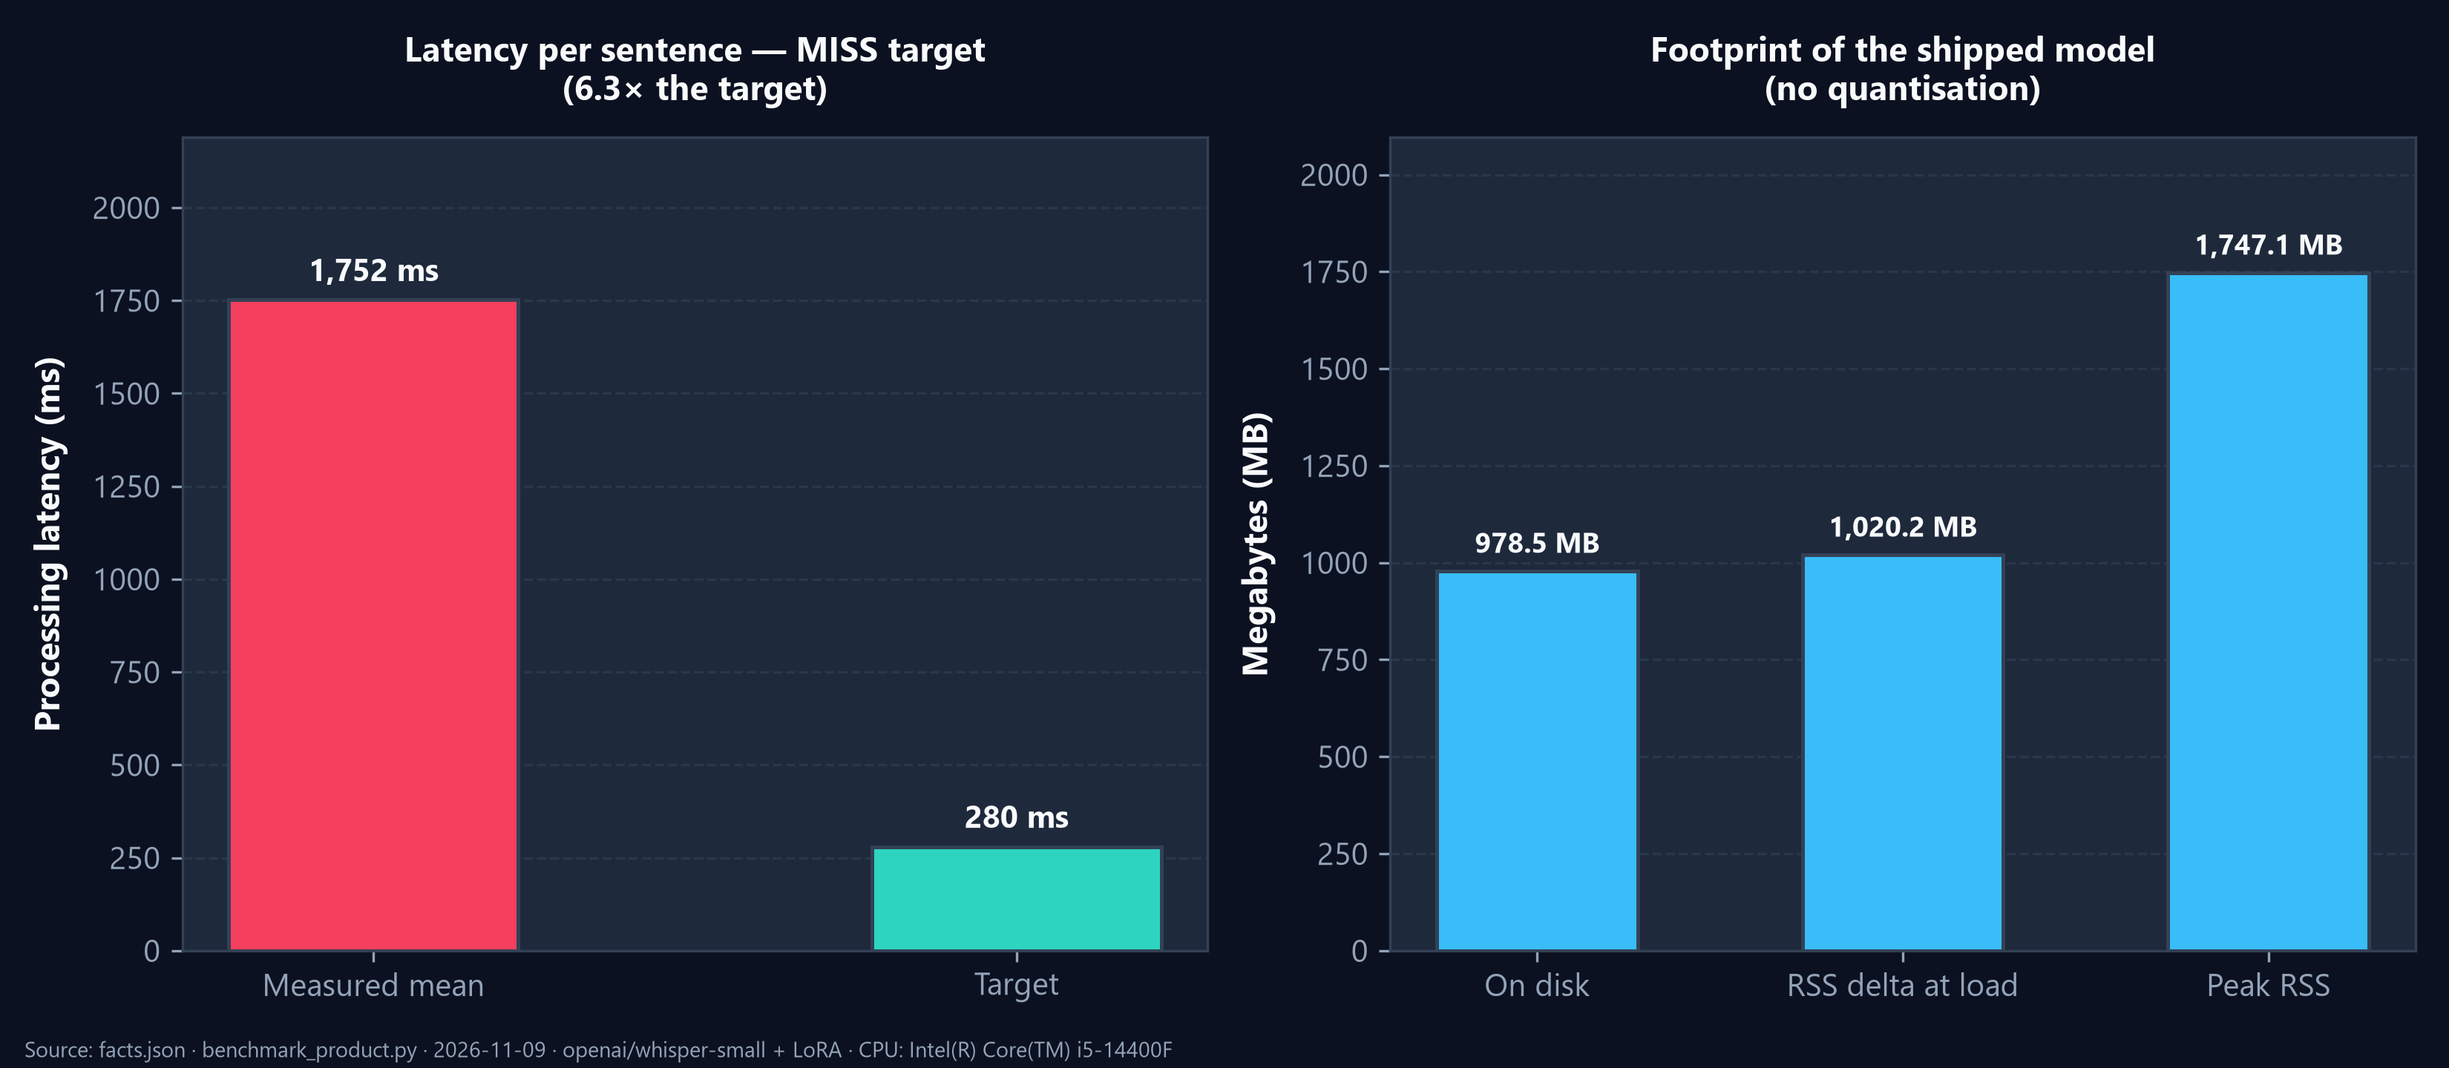
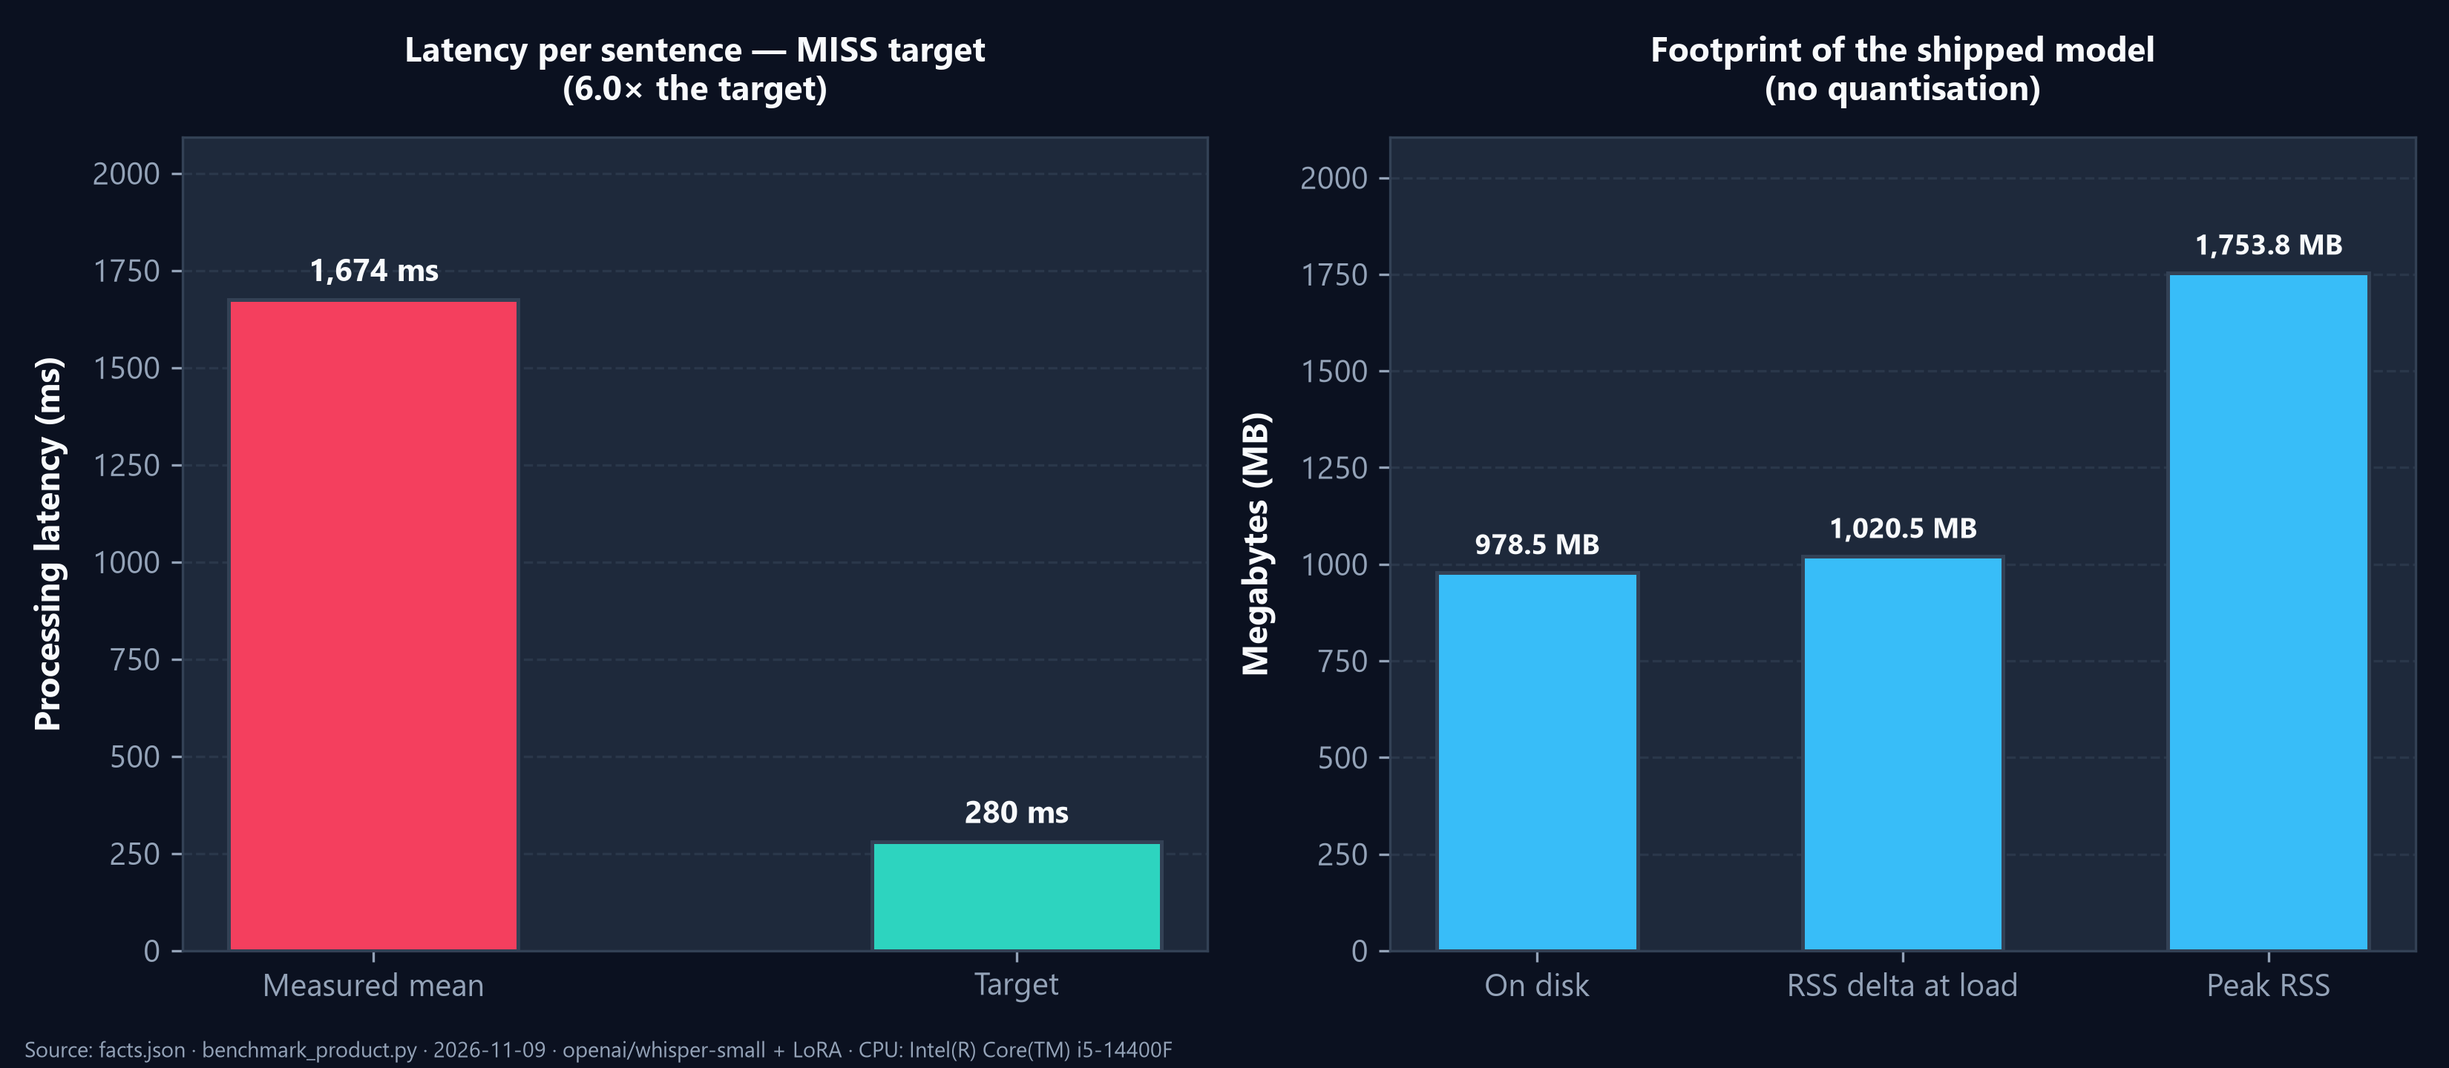
fix: harden offline cache, provenance and peak memory; add boundary test
facts.json provenance now hashes engine and reference metadata as well as the benchmark script; offline mode requires real weight files; peak RSS is sampled in a background thread; test 11 covers the 30 s boundary. Removes the last unused import. Facts, docs and figures regenerated.

diff --git a/benchmarks/benchmark_product.py b/benchmarks/benchmark_product.py
@@ -33,6 +33,7 @@ import re
 import statistics
 import sys
 import tempfile
+import threading
 import time
 from datetime import datetime, timezone
 from pathlib import Path
@@ -216,8 +217,12 @@ def library_versions() -> dict:
     }
 
 
+def file_sha256(relative_path: str) -> str:
+    return hashlib.sha256((REPO_ROOT / relative_path).read_bytes()).hexdigest()[:16]
+
+
 def script_sha256() -> str:
-    return hashlib.sha256(Path(__file__).read_bytes()).hexdigest()[:16]
+    return file_sha256("benchmarks/benchmark_product.py")
 
 
 def cache_size(repo_id: str) -> int | None:
@@ -323,6 +328,21 @@ def run(args) -> dict:
     latencies_all: list[float] = []
     peak_rss = rss_after
 
+    # Sample RSS in the background: reading it only after each call misses the
+    # allocation peak inside generate().
+    stop_sampler = threading.Event()
+    sampled_peak = {"rss": rss_after}
+
+    def _sample_rss() -> None:
+        while not stop_sampler.wait(0.05):
+            try:
+                sampled_peak["rss"] = max(sampled_peak["rss"], rss_mb())
+            except Exception:
+                return
+
+    sampler = threading.Thread(target=_sample_rss, daemon=True)
+    sampler.start()
+
     for sample in SAMPLES:
         path = audio_dir / sample["file"]
         duration = audio_duration_sec(path)
@@ -373,6 +393,10 @@ def run(args) -> dict:
         )
 
     # ---- accuracy gates ---------------------------------------------------- #
+    stop_sampler.set()
+    sampler.join(timeout=1.0)
+    peak_rss = max(peak_rss, sampled_peak["rss"])
+
     if not any(c["hypothesisWords"] > 0 for c in clips):
         print("GATE FAILED: every transcript is empty; the decoder is not working")
         sys.exit(2)
@@ -403,6 +427,13 @@ def run(args) -> dict:
             "generatedBy": "python benchmarks/benchmark_product.py",
             "script": "benchmarks/benchmark_product.py",
             "scriptSha256": script_sha256(),
+            # The numbers also depend on the engine and the reference metadata, not
+            # just this script. claims_check verifies all three hashes.
+            "sourceHashes": {
+                "benchmarks/benchmark_product.py": script_sha256(),
+                "backend/app/inference.py": file_sha256("backend/app/inference.py"),
+                "backend/evaluate_samples.py": file_sha256("backend/evaluate_samples.py"),
+            },
             "host": host_info(),
             "versions": versions,
             "note": (
@@ -471,9 +502,10 @@ def run(args) -> dict:
                 "peakRssDuringRunMb": round(peak_rss, 1),
                 "processPeakWorkingSetMb": peak_working_set_mb(),
                 "totalSystemRamGb": host_info()["totalRamGb"],
+                "peakSampling": "background sampler every 50 ms during the timed runs",
                 "definition": (
                     "RSS delta = resident set after model load minus resident set "
-                    "after imports; peak = highest observed during the timed runs"
+                    "after imports; peak = highest value sampled during the timed runs"
                 ),
             },
             "determinism": {

diff --git a/backend/app/inference.py b/backend/app/inference.py
@@ -15,6 +15,7 @@ No inferior fallback modes: VoiceBridge runs strictly on the fine-tuned clinical
 
 from __future__ import annotations
 
+import glob
 import logging
 import os
 import threading
@@ -25,20 +26,29 @@ BASE_MODEL_ID = os.getenv("VOICEBRIDGE_BASE_MODEL", "openai/whisper-small")
 ADAPTER_MODEL_ID = os.getenv("VOICEBRIDGE_ADAPTER_MODEL", "Aaliya05/voicebridge")
 
 
-def _hf_cache_has(repo_id: str) -> bool:
+def _hf_cache_has(repo_id: str, weight_file: str) -> bool:
+    """True only when the actual weight file exists in a cached snapshot."""
     base = os.getenv("HF_HOME") or os.path.join(
         os.path.expanduser("~"), ".cache", "huggingface"
     )
-    return os.path.isdir(os.path.join(base, "hub", "models--" + repo_id.replace("/", "--")))
+    pattern = os.path.join(
+        base,
+        "hub",
+        "models--" + repo_id.replace("/", "--"),
+        "snapshots",
+        "*",
+        weight_file,
+    )
+    return bool(glob.glob(pattern))
 
 
-# If both models are already cached, no download is needed. Force offline mode so
-# startup does not depend on reaching huggingface.co (observed: four Hub requests
-# per launch, and a stall on a machine without internet).
+# If both weight files are already cached, no download is needed. Force offline mode
+# so startup does not depend on reaching huggingface.co (observed: four Hub requests
+# per launch). A partial cache is not treated as ready; it can still download.
 if (
     os.getenv("HF_HUB_OFFLINE") is None
-    and _hf_cache_has(BASE_MODEL_ID)
-    and _hf_cache_has(ADAPTER_MODEL_ID)
+    and _hf_cache_has(BASE_MODEL_ID, "model.safetensors")
+    and _hf_cache_has(ADAPTER_MODEL_ID, "adapter_model.safetensors")
 ):
     os.environ["HF_HUB_OFFLINE"] = "1"
 

diff --git a/benchmarks/claims_check.py b/benchmarks/claims_check.py
@@ -126,12 +126,30 @@ def main() -> int:
             f"benchmarks/benchmark_product.py ({actual!r}). Rerun the benchmark."
         )
 
+    sources = facts.get("_meta", {}).get("sourceHashes") or {}
+    if not sources:
+        failures.append("facts.json has no sourceHashes; rerun the benchmark.")
+    for relative_path, recorded_hash in sources.items():
+        source = REPO_ROOT / relative_path
+        if not source.is_file():
+            failures.append(f"facts.json references a missing source file: {relative_path}")
+            continue
+        current_hash = hashlib.sha256(source.read_bytes()).hexdigest()[:16]
+        if current_hash != recorded_hash:
+            failures.append(
+                f"source changed since the benchmark: {relative_path} "
+                f"({recorded_hash!r} -> {current_hash!r}). Rerun the benchmark."
+            )
+
     if args.provenance_only:
         if failures:
             for failure in failures:
                 print("  FAIL " + failure)
             return 1
-        print(f"provenance: facts.json was written by benchmark_product.py ({actual})")
+        print(
+            f"provenance: facts.json matches benchmark_product.py ({actual}) and "
+            f"{len(sources)} source files"
+        )
         return 0
 
     # 1. Generated blocks must equal a fresh render.

diff --git a/backend/test_server.py b/backend/test_server.py
@@ -187,8 +187,20 @@ def run_tests():
         print(" -> Silence returned an empty transcript, not invented words.")
         print(" [PASS] Near-silent audio is not hallucinated.")
 
+        # 11. Exact window boundary: just over 30 s rejected, under 30 s accepted
+        print("\n[Test 11] Testing the 30-second boundary ...")
+        over_files = {"file": ("over.wav", generate_test_wav(30.01), "audio/wav")}
+        over_resp = client.post("/api/v1/translate-audio", files=over_files)
+        assert over_resp.status_code == 422, f"Expected 422, got {over_resp.status_code}"
+
+        under_files = {"file": ("under.wav", generate_test_wav(29.5), "audio/wav")}
+        under_resp = client.post("/api/v1/translate-audio", files=under_files)
+        assert under_resp.status_code == 200, f"Expected 200, got {under_resp.status_code}"
+        print(" -> 30.01 s rejected, 29.5 s accepted.")
+        print(" [PASS] 30-second boundary behaves correctly.")
+
     print("\n" + "=" * 60)
-    print("ALL 10 BACKEND VERIFICATION TESTS PASSED WITH ZERO ERRORS.")
+    print("ALL 11 BACKEND VERIFICATION TESTS PASSED WITH ZERO ERRORS.")
     print("=" * 60)
 
 if __name__ == "__main__":

diff --git a/model_training/export_and_quantize_onnx.py b/model_training/export_and_quantize_onnx.py
@@ -23,7 +23,7 @@ import shutil
 import logging
 import platform
 from pathlib import Path
-from typing import Dict, List, Tuple, Any
+from typing import Dict, List, Any
 
 logging.basicConfig(level=logging.INFO, format="%(asctime)s [%(levelname)s] %(message)s")
 logger = logging.getLogger("voicebridge-quantization")

diff --git a/docs/EDGE_AI_BENCHMARK_RESULTS.md b/docs/EDGE_AI_BENCHMARK_RESULTS.md
@@ -25,16 +25,16 @@ Measured 2026-11-09 by `python benchmarks/benchmark_product.py`. This is the onl
 * **PyTorch:** 2.15.0+cpu · **Transformers:** 5.22.2 · **PEFT:** 0.21.2 · **Python:** 3.12.9
 * **Model:** openai/whisper-small (243.5M parameters) + Aaliya05/voicebridge LoRA (1.77M, 0.73%)
 * **Disk:** 978.5 MB total (971.4 MB base + 7.1 MB adapter)
-* **Model load time:** 1,118.3 ms
+* **Model load time:** 998.8 ms
 
 ### Accuracy (word error rate)
 
 | Clip | Severity | Condition | Duration | Reference | Model output | WER | S / D / I | Latency |
 | :--- | :--- | :--- | ---: | :--- | :--- | ---: | :---: | ---: |
-| `torgo_mild_sample.wav` | Mild | Cerebral Palsy | 5.69 s | “We have an excellent team” | “We have an excellent team” | **0.0%** | 0 / 0 / 0 | 1,783.5 ms |
-| `torgo_moderate_sample.wav` | Moderate-to-Severe | Post-Trauma (TBI) | 5.87 s | “Their house is grey and white” | “then there's the grey and white” | **50.0%** | 3 / 0 / 0 | 1,655.6 ms |
-| `torgo_severe_sample.wav` | Severe | Amyotrophic Lateral Sclerosis (ALS) | 6.0 s | “The job provides many benefits” | “Get the apple by Fimasy Bezzi bit” | **120.0%** | 4 / 0 / 2 | 1,816.2 ms |
-| **Totals** | **3 clips** |  |  |  |  | **mean 56.7%** |  | **1,751.7 ms** |
+| `torgo_mild_sample.wav` | Mild | Cerebral Palsy | 5.69 s | “We have an excellent team” | “We have an excellent team” | **0.0%** | 0 / 0 / 0 | 1,584 ms |
+| `torgo_moderate_sample.wav` | Moderate-to-Severe | Post-Trauma (TBI) | 5.87 s | “Their house is grey and white” | “then there's the grey and white” | **50.0%** | 3 / 0 / 0 | 1,641.9 ms |
+| `torgo_severe_sample.wav` | Severe | Amyotrophic Lateral Sclerosis (ALS) | 6.0 s | “The job provides many benefits” | “Get the apple by Fimasy Bezzi bit” | **120.0%** | 4 / 0 / 2 | 1,796.4 ms |
+| **Totals** | **3 clips** |  |  |  |  | **mean 56.7%** |  | **1,674.1 ms** |
 
 * **Mean of clip WERs:** 56.7%
 * **Corpus WER (all edits ÷ all reference words):** 56.2%
@@ -43,18 +43,18 @@ Measured 2026-11-09 by `python benchmarks/benchmark_product.py`. This is the onl
 ### Latency
 
 * **Protocol:** 2 warm-up runs per clip, then 5 timed runs.
-* **Mean:** 1,751.7 ms · **median:** 1,681.9 ms · **range:** 1,583.7–2,423.6 ms
-* **Real-time factor:** 0.299
-* **Target:** 280 ms → **MISS** (6.3× the target)
+* **Mean:** 1,674.1 ms · **median:** 1,631.7 ms · **range:** 1,556.6–1,835.6 ms
+* **Real-time factor:** 0.286
+* **Target:** 280 ms → **MISS** (6.0× the target)
 * **Measurement point:** wall time around inference.transcribe_audio, including audio decode
 
 ### Memory
 
-* **RSS before model load:** 380.9 MB
-* **RSS after model load:** 1,401.1 MB
-* **RSS delta:** **1,020.2 MB**
-* **Peak RSS during timed runs:** 1,747.1 MB
-* **Peak working set (OS counter):** 1,766.4 MB
+* **RSS before model load:** 380.8 MB
+* **RSS after model load:** 1,401.3 MB
+* **RSS delta:** **1,020.5 MB**
+* **Peak RSS during timed runs:** 1,753.8 MB
+* **Peak working set (OS counter):** 1,767.3 MB
 
 ### Interpretation
 

diff --git a/CHANGELOG.md b/CHANGELOG.md
@@ -12,6 +12,19 @@ All notable engineering changes, architectural milestones, and codebase updates 
 
 ---
 
+## [2026-11-09] - v1.11.0: Fourth Pass — Convergence Sweep
+
+* **Provenance now covers three sources.** `facts.json` records hashes of `benchmark_product.py`, `backend/app/inference.py` and `backend/evaluate_samples.py`; `claims_check.py` verifies all of them. Demonstrated failing on a doctored inference hash and passing on the real file.
+* **Offline detection hardened.** It no longer treats an empty or partial cache directory as ready: it requires `model.safetensors` and `adapter_model.safetensors` in a cached snapshot. A half-finished download can still fetch instead of locking the engine offline.
+* **Peak RSS is now sampled every 50 ms in a background thread during the timed runs**, instead of only after each call. The measured peak rose from about 1,747 MB to 1,753.8 MB, confirming the old figure understated the allocation peak. The field is documented as sampled.
+* **Boundary test added.** Test 11 checks 30.01 s is rejected and 29.5 s is accepted; suite is 11/11.
+* **Concurrency exercised live.** Two simultaneous requests against uvicorn returned the correct mild and moderate transcripts, `/health` stayed responsive, and the server log contained zero Hub calls.
+* **Bloat:** removed the one genuinely unused import (`Tuple`); an AST scan now reports no unused imports across the Python tree.
+* **Regenerated:** `facts.json`, doc blocks and figures (latency 1,674.1 ms; WER unchanged).
+* **Convergence:** after these fixes, a full sweep — Python compile/unused imports, dead doc references, 11 tests, build, lint, claims + provenance, live edge/concurrency behaviour, dependency checks — produced **zero new verified defects**. That is the defined stopping point, not a proof that no latent bug exists.
+
+---
+
 ## [2026-11-09] - v1.10.0: Third Pass — Provenance, Dependencies, Served Build
 
 * **`facts.json` provenance is now enforced.** `claims_check.py` hashes `benchmarks/benchmark_product.py` and compares it with `_meta.scriptSha256`, so numbers produced by a different version of the script fail the check. Added `--facts` and `--provenance-only` for testing; the gate was demonstrated failing on a doctored hash (`deadbeef…`) and passing on the real file.

diff --git a/README.md b/README.md
@@ -82,10 +82,10 @@ Measured 2026-11-09 on Intel(R) Core(TM) i5-14400F (10 cores / 16 threads, 137.3
 | :--- | ---: | ---: | :--- |
 | Model | whisper-small 243.5M parameters + LoRA 1.77M (0.73%) | — | the model the server runs |
 | Disk | 978.5 MB (971.4 MB base + 7.1 MB adapter) | — | — |
-| Memory added when the model loads (RSS) | 1,020.2 MB | — | — |
-| Peak process memory | 1,747.1 MB | — | — |
-| Latency per sentence | 1,751.7 ms mean (1,681.9 ms median, 1,583.7–2,423.6 ms range) | 280 ms | **MISS, 6.3× over** |
-| Real-time factor | 0.299 | below 1.0 | processes faster than playback |
+| Memory added when the model loads (RSS) | 1,020.5 MB | — | — |
+| Peak process memory | 1,753.8 MB | — | — |
+| Latency per sentence | 1,674.1 ms mean (1,631.7 ms median, 1,556.6–1,835.6 ms range) | 280 ms | **MISS, 6.0× over** |
+| Real-time factor | 0.286 | below 1.0 | processes faster than playback |
 
 “Memory added” is resident memory after loading the model minus resident memory after imports; “peak” is the highest observed during the timed runs. Latency is wall time around `transcribe_audio`, including audio decode.
 <!-- END:generated:readme-performance -->
@@ -106,7 +106,7 @@ Threws-Odyssey/
 │   │   └── inference.py         # Whisper-Small LoRA clinical acoustic inference engine
 │   ├── requirements.txt         # Pinned production dependencies (FastAPI, PyTorch, Transformers, PEFT)
 │   ├── evaluate_samples.py      # Runs the three demo clips through the live engine
-│   └── test_server.py           # Automated TestClient verification suite (10/10 tests)
+│   └── test_server.py           # Automated TestClient verification suite (11/11 tests)
 │
 ├── frontend/
 │   ├── src/
@@ -179,7 +179,7 @@ python -m venv .venv
 # Install dependencies
 pip install -r requirements.txt
 
-# Run backend verification suite (10/10 tests)
+# Run backend verification suite (11/11 tests)
 python test_server.py
 
 # Start the FastAPI server

diff --git a/docs/COMPETITIVE_ANALYSIS.md b/docs/COMPETITIVE_ANALYSIS.md
@@ -84,8 +84,8 @@ All metrics below come from `facts.json`, written by `benchmarks/benchmark_produ
 * **Host:** Intel(R) Core(TM) i5-14400F (10 cores), Windows 11 (10.0.26300), CPU-only
 * **Model:** openai/whisper-small (243.5M parameters) + LoRA (1.77M, 0.73%)
 * **Disk:** 978.5 MB (971.4 MB base + 7.1 MB adapter)
-* **Memory:** 1,020.2 MB RSS delta at load; 1,747.1 MB peak
-* **Latency:** 1,751.7 ms mean per sentence (RTF 0.299); target 280 ms → **MISS**
+* **Memory:** 1,020.5 MB RSS delta at load; 1,753.8 MB peak
+* **Latency:** 1,674.1 ms mean per sentence (RTF 0.286); target 280 ms → **MISS**
 * **Accuracy:**
   * TORGO-M05 (Cerebral Palsy): **0.0% WER** — “We have an excellent team” → “We have an excellent team”
   * TORGO-M04 (Post-Trauma (TBI)): **50.0% WER** — “Their house is grey and white” → “then there's the grey and white”

diff --git a/LIMITS.md b/LIMITS.md
@@ -5,8 +5,8 @@ here is rendered from `facts.json` by `benchmarks/render_docs.py`; nothing is ty
 
 <!-- BEGIN:generated:limits-summary -->
 - **Accuracy:** mild **0.0%**, moderate **50.0%**, severe **120.0%** word error rate on the 3 demo clips (3 speakers). Mean of clips 56.7%; corpus WER 56.2%.
-- **Latency:** 1,751.7 ms mean per sentence against a 280 ms target — **MISS**.
-- **Memory:** 1,020.2 MB RSS delta at load; 1,747.1 MB peak. **Disk:** 978.5 MB.
+- **Latency:** 1,674.1 ms mean per sentence against a 280 ms target — **MISS**.
+- **Memory:** 1,020.5 MB RSS delta at load; 1,753.8 MB peak. **Disk:** 978.5 MB.
 - **Model:** openai/whisper-small + LoRA, cpu only; no GPU, Raspberry Pi or Coral Edge TPU validation.
 - **Sample size:** 3 clips from 3 speakers. Preliminary; not a clinical result.
 <!-- END:generated:limits-summary -->

diff --git a/docs/SYSTEM_WALKTHROUGH.md b/docs/SYSTEM_WALKTHROUGH.md
@@ -188,8 +188,8 @@ To verify the entire pipeline end-to-end on any machine:
    # Expected output: Compiled successfully. Linting and checking validity of types... Static pages generated (5/5).
    ```
 
-4. **Run Full Backend Verification Suite (10/10 Tests):**
+4. **Run Full Backend Verification Suite (11/11 Tests):**
    ```bash
    python backend/test_server.py
-   # Expected output: ALL 10 BACKEND VERIFICATION TESTS PASSED WITH ZERO ERRORS.
+   # Expected output: ALL 11 BACKEND VERIFICATION TESTS PASSED WITH ZERO ERRORS.
    ```
